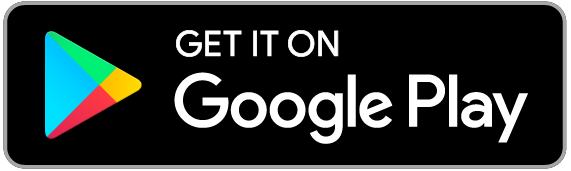
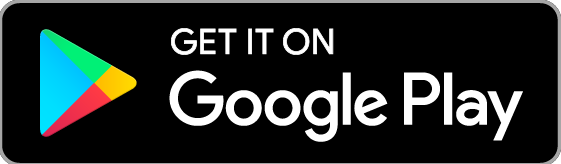
added box-shadow

diff --git a/css/style.css b/css/style.css
@@ -51,14 +51,17 @@ h1 {
     width: 150px;
     height: 50px;
     border-radius: 10px;
+    cursor: pointer;
+    box-shadow: 4px 4px 8px rgba(0, 0, 0, 0.6),
+                -4px -4px 8px rgb(255, 255, 255);
 }
 
 .windows, .google-play {
-    margin-right: 3.5px;
+    margin-right: 8px;
 }
 
 .apple-store, .mac-store {
-    margin-left: 3.5px;
+    margin-left: 8px;
 }
 
 footer {
@@ -138,7 +141,7 @@ footer {
 }
 
 .bottom-margin {
-    margin-bottom: .3rem !important;
+    margin-bottom: 16px !important;
 }
 
 .footer-margin {

diff --git a/index.html b/index.html
@@ -44,7 +44,7 @@
     <div class="container top-padding">
         <div class="row">
             <div class="col s12 xl7">
-                <h1 class="thin place-center">Simple. Secure.<br>Fast Messaging</h1>
+                <h1 class="thin place-center">Simple. Secure.<br>Fast Messaging.</h1>
 
                 <div class="col offset-s1 s10 offset-m2 m8 offset-l2 l8 xl10 place-center">
                     <p>
